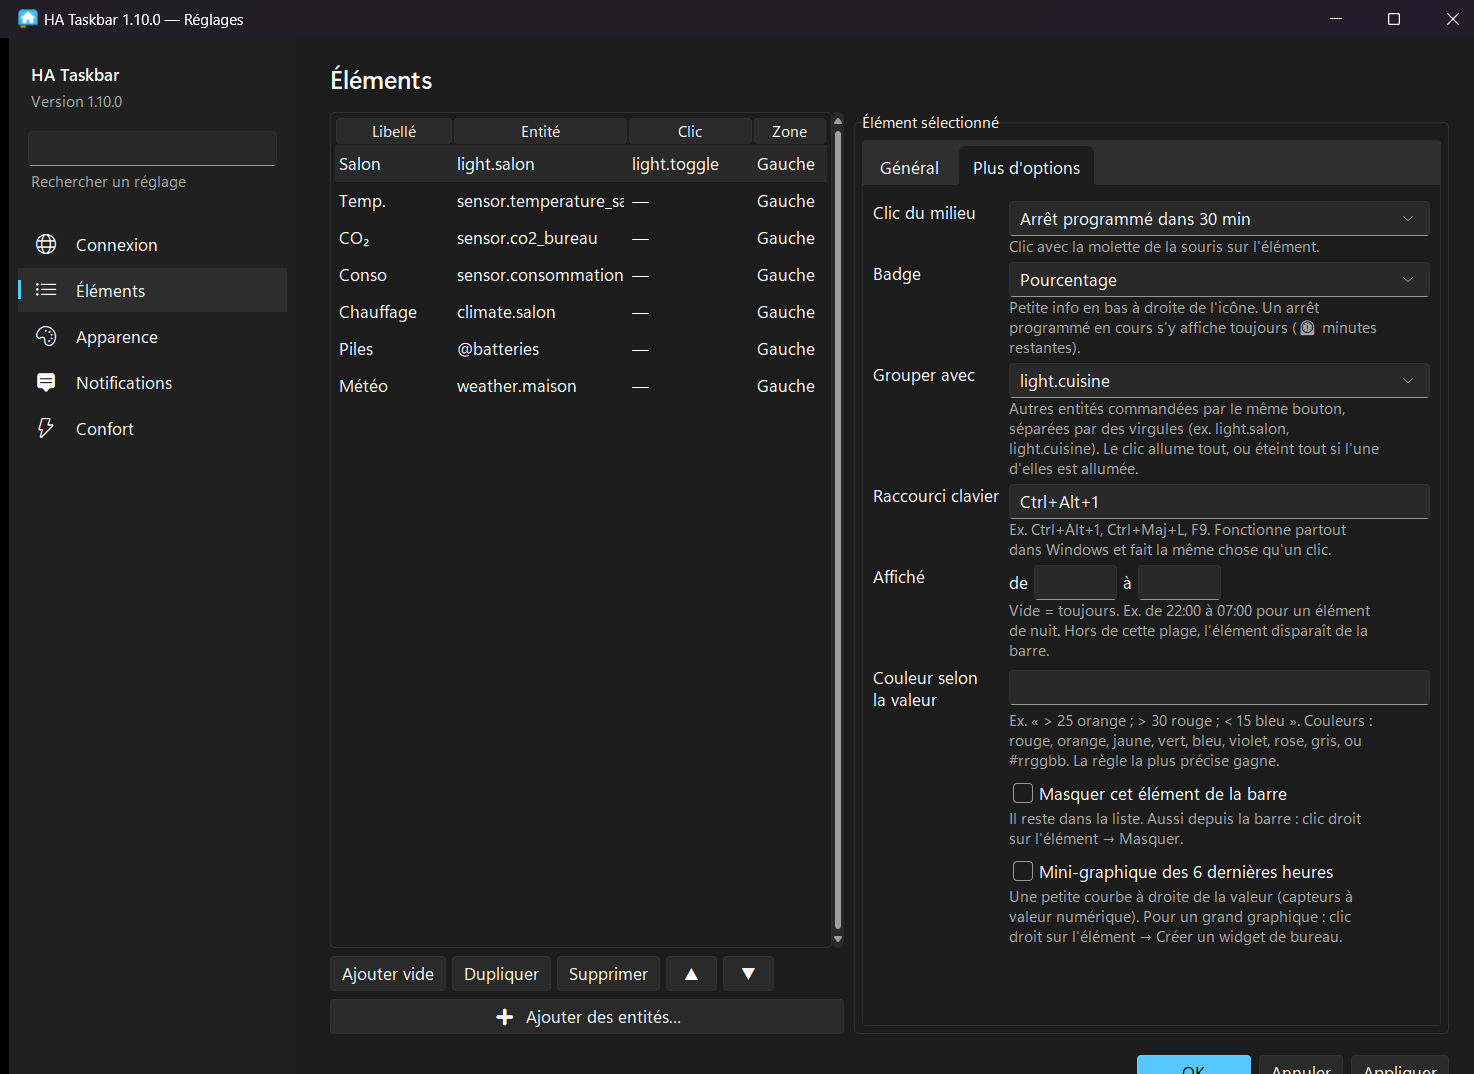
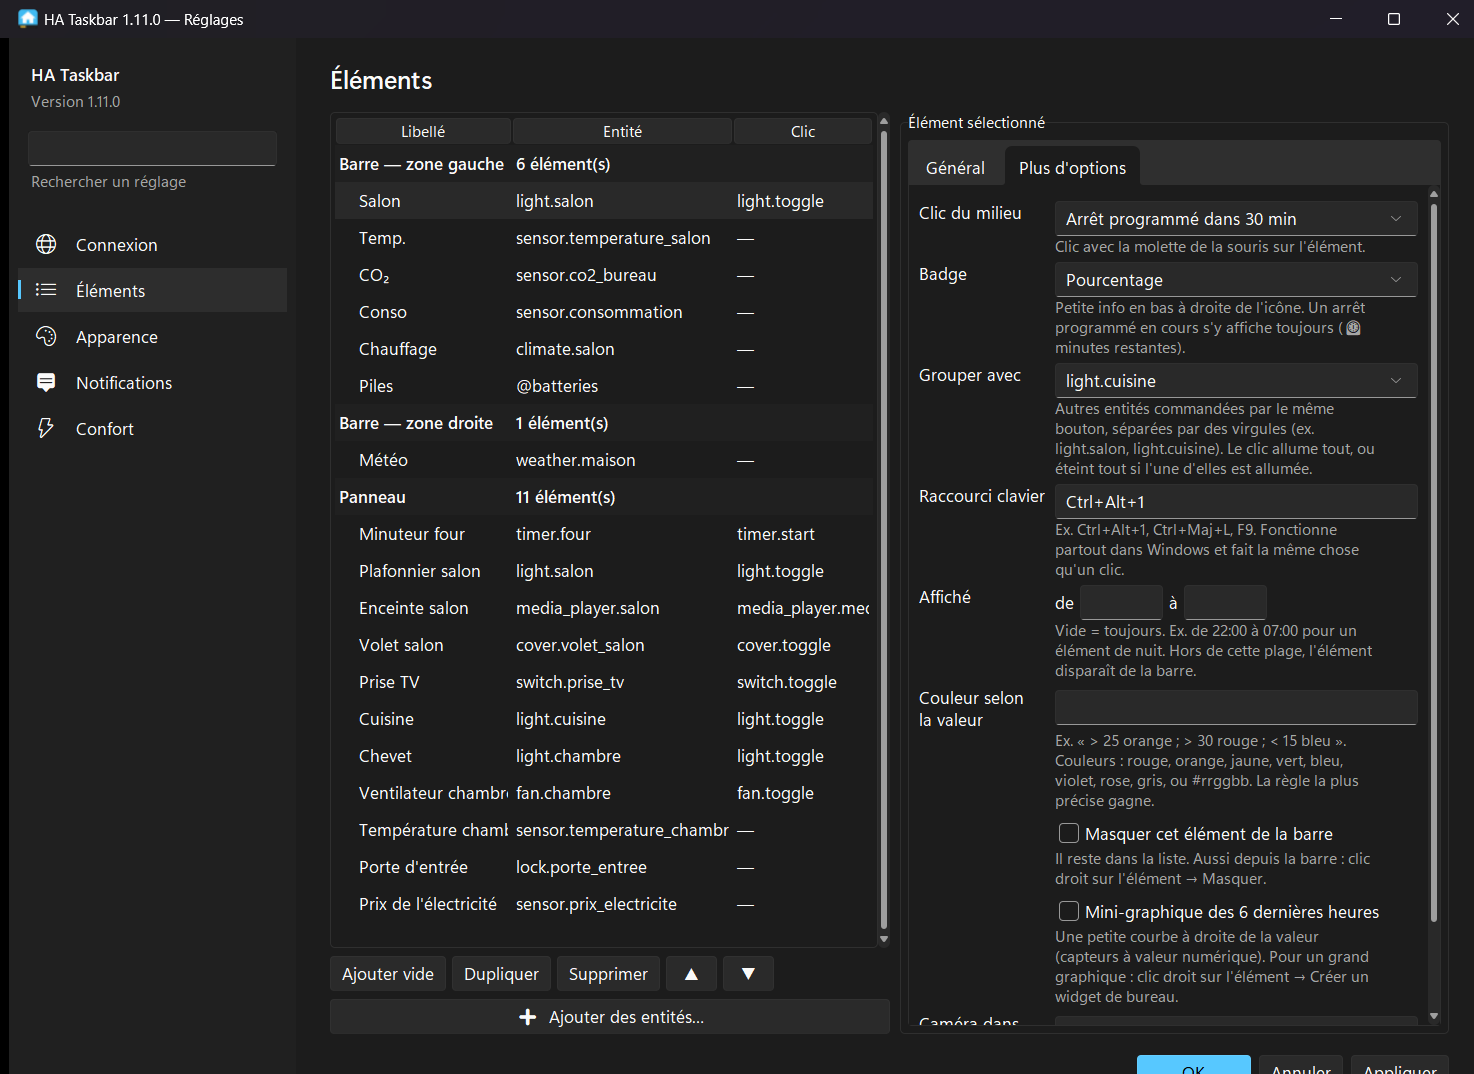
Captures 1.11 (panneau, minuteur, pochette, Assist) et titres de la liste des elements non coupes
- docs/screenshots : panneau, carte d'un minuteur, palette avec Assist (FR et EN), captures des
  reglages refaites avec la liste en 3 parties et le champ « Afficher la camera »
- Reglages : le nombre d'elements d'une partie et le texte « fais glisser » passent dans la 2e colonne

diff --git a/settings_ui.py b/settings_ui.py
@@ -874,13 +874,13 @@ class SettingsWindow:
         items = self.cfg["items"]
         for zone, title in self.ZONES:
             idx = [i for i, it in enumerate(items) if item_zone(it) == zone]
-            self.tree.insert("", "end", iid="grp:" + zone, values=("%s  (%d)" % (title, len(idx)), "", ""),
+            self.tree.insert("", "end", iid="grp:" + zone, values=(title, _("%d élément(s)") % len(idx) if idx else "", ""),
                              tags=("group",))
             for i in idx:
                 self.tree.insert("", "end", iid=str(i), values=self.tree_values(items[i]))
             if not idx:
                 self.tree.insert("", "end", iid="empty:" + zone, tags=("hint",),
-                                 values=("    " + _("(vide — fais glisser un élément ici)"), "", ""))
+                                 values=("    " + _("(vide)"), _("fais glisser un élément ici"), ""))
         if self.cfg["items"]:
             self.empty_label.place_forget()
         else:

diff --git a/i18n_en.py b/i18n_en.py
@@ -847,6 +847,9 @@ EN = {
     "Barre — zone gauche": "Bar — left zone",
     "Barre — zone droite": "Bar — right zone",
     "(vide — fais glisser un élément ici)": "(empty — drag an item here)",
+    "(vide)": "(empty)",
+    "fais glisser un élément ici": "drag an item here",
+    "%d élément(s)": "%d item(s)",
     "Ouvrir le panneau": "Open the panel",
     "Le panneau est vide : range d'abord un élément dans la partie « Panneau » de l'onglet Éléments.":
         "The panel is empty: first put an item in the “Panel” part of the Items tab.",

diff --git a/README.md b/README.md
@@ -34,6 +34,10 @@ Un **programme d'installation** et une **version portable** (sans installation) 
 Version Windows. Sur Mac, ces nouveautés arrivent dans une prochaine version.
 
 **🏠 Le panneau** : un seul bouton sur la barre des tâches ouvre la liste de tes éléments, juste au-dessus, comme les Paramètres rapides de Windows 11.
+
+<p align="center">
+  <img src="docs/screenshots/panneau.png" width="620" alt="Le panneau, élargi sur deux colonnes : minuteur, lumières, enceinte avec sa pochette, volet, ventilateur, serrure">
+</p>
 - Les éléments sont **rangés par pièce**. Chaque ligne a une **recherche**, des **interrupteurs**, des **curseurs** (luminosité, volume, position d'un volet…), des boutons **+/−** pour un thermostat, et l'**image des caméras**.
 - **Taille réglable** : tire le bord haut, gauche ou droit. Quand le panneau est large, les pièces se répartissent sur **plusieurs colonnes**. Un double-clic sur un bord remet la taille d'origine.
 - **Ordre libre** : glisse un élément dans sa pièce, ou le titre d'une pièce pour la déplacer en entier.
@@ -44,11 +48,19 @@ Version Windows. Sur Mac, ces nouveautés arrivent dans une prochaine version.
 
 **🖼 Photos et pochettes** : la photo d'une personne et la pochette du morceau en cours s'affichent dans la carte et dans le panneau.
 
+<p align="center">
+  <img src="docs/screenshots/carte-minuteur.png" width="300" alt="Carte d'un minuteur : compte à rebours, Pause, Annuler, Terminer, durées toutes prêtes">
+  &nbsp;
+  <img src="docs/screenshots/carte-media.png" width="300" alt="Carte d'une enceinte avec la pochette du morceau en cours">
+</p>
+
 **📷 Caméras**
 - **Caméra dans la carte** : **Réglages → Éléments → Plus d'options → Caméra dans la carte** affiche l'image en direct en haut de la carte d'un élément (la caméra de l'entrée sur le bouton du portail, par exemple).
 - **Fenêtre caméra quand on sonne** : une notification d'état peut ouvrir une petite fenêtre en bas à droite avec l'image en direct (**Réglages → Notifications → Afficher la caméra**). Elle ne prend pas le clavier, se ferme seule après une minute, et un clic sur l'image ouvre la carte de la caméra.
 
 **💬 Assist dans la palette** : tape une phrase (« allume le salon », « quelle heure est-il ») puis **Entrée** sur la ligne « Demander à Assist », ou **Ctrl+Entrée**. La réponse s'affiche sous la recherche.
+
+![Assist dans la palette de commandes](docs/screenshots/palette-assist.png)
 
 **🖥 Plusieurs écrans** : chaque élément peut s'afficher sur la barre des tâches d'un autre écran (**Réglages → Éléments → Écran**, ou Ctrl + glisser l'élément jusqu'à l'autre barre). Si cet écran est débranché, l'élément revient sur la barre principale.
 

diff --git a/README.en.md b/README.en.md
@@ -35,6 +35,8 @@ An **installer** and a **portable version** (no installation) are provided: noth
 These features are in the Windows version. They will come to the Mac in a later version.
 
 - 🏠 **The panel**: a single taskbar button opens a list of your items above it, like Windows 11 Quick Settings.
+
+  <p align="center"><img src="docs/screenshots/en/panel.png" width="620" alt="The panel, widened to two columns"></p>
   - Items are grouped by room, with search, toggles, sliders (brightness, volume, cover position…), +/− buttons for thermostats, and live camera images.
   - **Resize it** by dragging its top, left or right edge. When it is wide, rooms spread over **several columns**.
   - **Reorder** by dragging an item within its room, or a room title to move the whole room.
@@ -46,6 +48,13 @@ These features are in the Windows version. They will come to the Mac in a later 
   - a live image at the top of an item's card (**Settings → Items → More options → Camera in the card**);
   - a small camera window when someone rings: a state notification can show the camera live (**Settings → Notifications → Show camera**).
 - 💬 **Assist in the command palette**: type a sentence, then press **Ctrl+Enter**. The answer appears under the search box.
+
+  <p align="center">
+    <img src="docs/screenshots/en/card-timer.png" width="300" alt="Timer card">
+    &nbsp;
+    <img src="docs/screenshots/en/card-media.png" width="300" alt="Speaker card with album art">
+  </p>
+  <p align="center"><img src="docs/screenshots/en/palette-assist.png" alt="Assist in the command palette"></p>
 - 🖥 **Multiple screens**: each item can go on the taskbar of another screen (**Settings → Items → Screen**).
 - **Also new**:
   - a **"+N" button** for items that would cover Windows icons;
